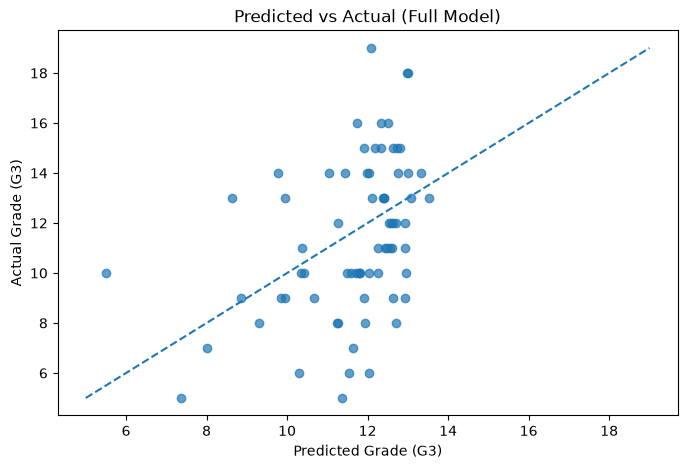
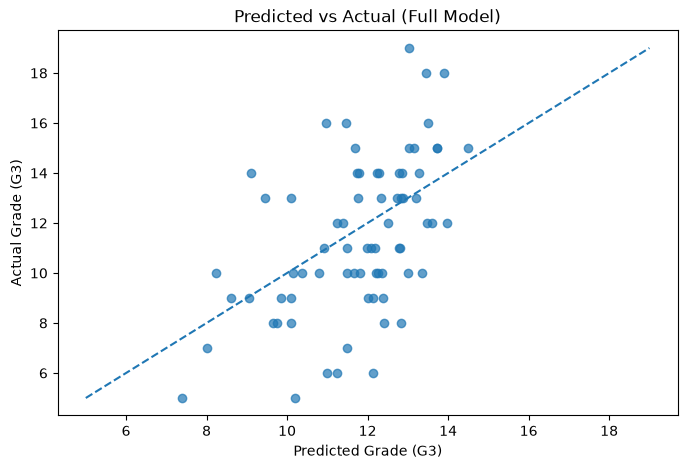
Made changes as per AI review

diff --git a/assignments_02/project_02.py b/assignments_02/project_02.py
@@ -286,7 +286,12 @@ feature_cols = [
     "sex",
     "freetime",
     "activities",
-    "traveltime"
+    "traveltime",
+    "age",
+    "traveltime",
+    "absences",
+    "goout", 
+    "Walc"
 ]
 
 # Create feature matrix and target
@@ -402,26 +407,41 @@ plt.show()
 # relatively low R², predictions are not tightly clustered around the diagonal.
 # The model captures general patterns but still has considerable uncertainty.
 
-# Model summary 
-# After removing students with G3 = 0 (students who did not take the final
-# exam), the filtered dataset contained 357 students. The test set contained
-# 72 students (20% of the filtered dataset).
+
+#  --------- Plain-language model summary --------------------
 #
-# The final model achieved:
-# Test RMSE: 2.855
-# Test R²: 0.154
+# After removing students with G3=0, the dataset contained 357 students.
+# The test set contained 72 students.
 #
-# An RMSE of about 2.86 means that the model's predictions are typically wrong
-# by about 3 grade points on a 0-20 grading scale. For example, if the model
+# The full model achieved:
+# Test R²: 0.263
+# Test RMSE: 2.664
+#
+# An RMSE of about 2.7 means that the model's predictions are typically off
+# by around 3 points on a 0-20 grading scale. For example, if the model
 # predicts a student will score 12, the actual score may commonly be around
-# 9-15. This is a meaningful error because a few points can change a student's
-# grade category.
+# 9-15.
 #
-# The R² of 0.154 means the model explains about 15% of the variation in final
-# grades using the available background and behavioral features. The remaining
-# variation is likely due to factors not included in the dataset, such as
-# motivation, individual ability, teaching quality, or earlier academic
-# knowledge.
+# The R² of 0.263 means that the model explains about 26% of the variation
+# in final grades. The remaining variation likely comes from factors not
+# included in the dataset, such as motivation, ability, teacher differences,
+# and earlier academic knowledge.
+#
+# The largest positive coefficient was internet (+1.037), meaning students
+# with internet access were predicted to have higher grades by about 1 point,
+# holding other factors constant.
+#
+# The largest negative coefficient was schoolsup (-2.263). This was surprising,
+# but likely reflects that students receiving school support are already
+# struggling academically. The coefficient captures who receives support,
+# not that support causes lower grades.
+#
+# The train R² (0.235) and test R² (0.263) are close, suggesting that the model
+# generalizes reasonably well and is not overfitting.
+#
+# One surprising result was that adding more background and behavioral
+# features improved the model, but the improvement was still limited.
+# Predicting final grades without using earlier grades remains challenging.
 
 # --------- Neglected Feature - The power of G1 -----------
 
@@ -438,7 +458,12 @@ feature_cols_with_g1 = [
     "freetime",
     "activities",
     "traveltime",
-    "G1"
+    "G1",
+    "age",
+    "traveltime",
+    "absences",
+    "goout", 
+    "Walc"
 ]
 
 # Create feature matrix and target
@@ -462,21 +487,31 @@ test_r2_g1 = model_g1.score(X_test_g1, y_test_g1)
 
 print("Test R² with G1 included:", test_r2_g1)
 
-# Adding G1 dramatically improves the model's performance because G1 is an
-# earlier grade from the same course and is closely related to the final grade
-# G3. A high R² does not mean that G1 causes G3. Instead, both grades reflect
-# the student's underlying academic performance, preparation, and progress in
-# the course.
+# Interpretation of G1 model:
 #
-# This model is useful for predicting final grades once the first-period grade
-# is available. It can help identify students who may be at risk during the
-# school year and allow educators to provide support before the final exam.
+# Adding G1 (first period grade) dramatically improved the model performance.
+# The test R² increased to approximately 0.749, compared with approximately
+# 0.263 for the full model without G1. This means that including the first
+# period grade allows the model to explain about 75% of the variation in the
+# final grade (G3).
 #
-# However, this model is not useful for identifying struggling students before
-# G1 exists because it depends heavily on information that is only available
-# after the course has already started.
+# However, a high R² does not mean that G1 is causing G3. G1 and G3 are both
+# measures of the student's academic performance in the same course. A strong
+# relationship exists because students who perform well early in the course
+# often continue to perform well later. The model is using an earlier measure
+# of achievement to predict a later measure of achievement.
 #
-# To intervene earlier, educators would need to use earlier indicators such as
-# attendance, study habits, prior academic history, engagement, family support,
-# and behavioral patterns. The goal would be to identify risk factors before
-# the first major grade is recorded.
+# This model is useful for identifying students who might struggle after the
+# first grading period. Once G1 is available, educators can use the model to
+# identify students who are predicted to have lower final grades and provide
+# additional support before the end of the course.
+#
+# However, this model cannot help with early intervention before G1 exists,
+# because it relies heavily on a grade that is only available after the course
+# has already started.
+#
+# To intervene earlier, educators would need to use features available before
+# the first grade is recorded, such as attendance patterns, previous academic
+# history, study habits, engagement, family support, and behavioral indicators.
+# The goal would be to identify students who may need help before they begin
+# falling behind academically.
